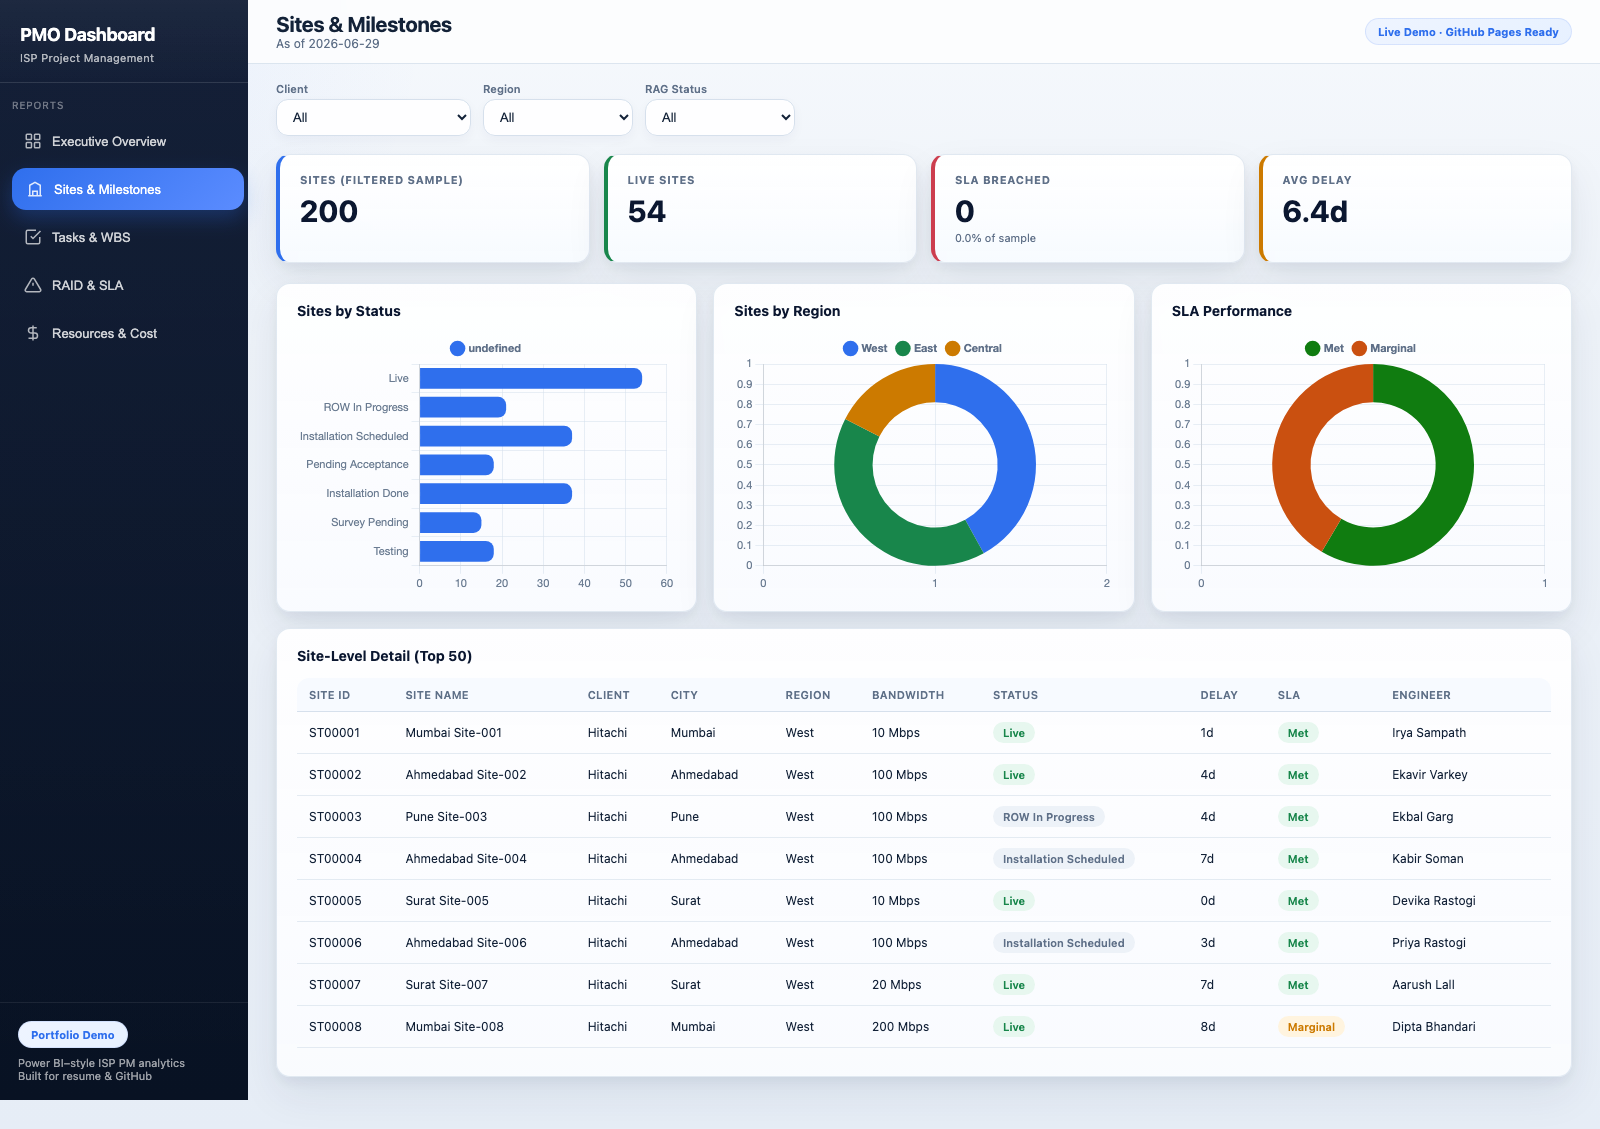
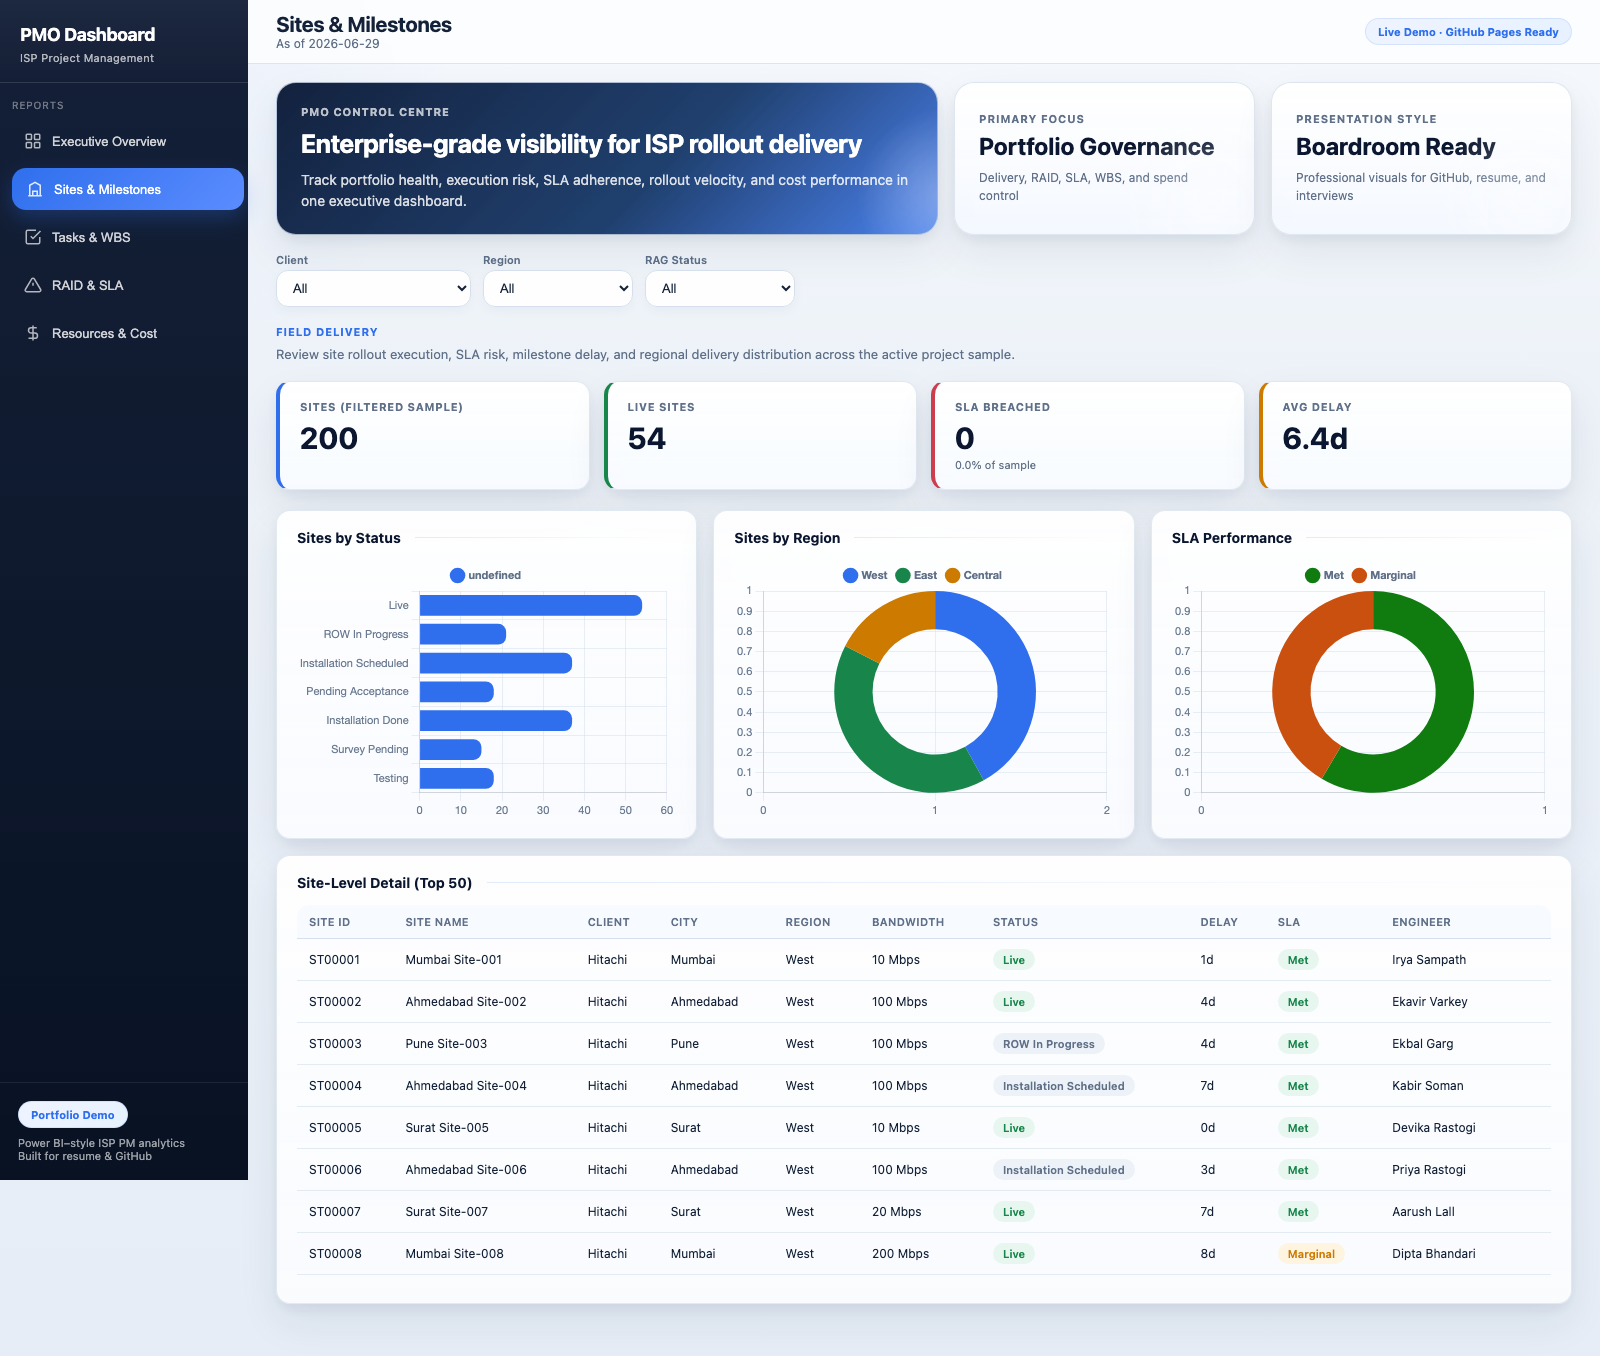
Enhance dashboard with premium layout, motion, and presentation polish.
Add an executive hero section, smoother page transitions, staged card animations, and stronger visual storytelling for a more professional PMO experience.

Changed region(s): [[0.0, 0.0, 1.0, 0.992], [0.8438, 0.0, 0.9688, 0.031], [0.75, 0.682, 0.8125, 0.713]]

diff --git a/css/dashboard.css b/css/dashboard.css
@@ -34,6 +34,7 @@ body {
   color: var(--text);
   display: flex;
   min-height: 100vh;
+  overflow-x: hidden;
 }
 
 /* Sidebar */
@@ -140,6 +141,85 @@ body {
 .topbar h2 { font-size: 21px; font-weight: 700; letter-spacing: -.3px; }
 .topbar-meta { font-size: 12px; color: var(--text-muted); }
 
+.hero-strip {
+  display: grid;
+  grid-template-columns: 2.2fr 1fr 1fr;
+  gap: 16px;
+  padding: 18px 28px 0;
+}
+
+.hero-panel {
+  position: relative;
+  overflow: hidden;
+  border-radius: 20px;
+  border: 1px solid rgba(214, 224, 236, .78);
+  box-shadow: var(--shadow);
+  padding: 22px 24px;
+  backdrop-filter: blur(10px);
+}
+
+.hero-panel::after {
+  content: "";
+  position: absolute;
+  inset: auto -15% -35% auto;
+  width: 180px;
+  height: 180px;
+  background: radial-gradient(circle, rgba(255,255,255,.32), transparent 70%);
+  pointer-events: none;
+}
+
+.hero-primary {
+  background:
+    linear-gradient(135deg, rgba(14, 29, 58, .98) 0%, rgba(23, 56, 104, .96) 58%, rgba(47, 111, 237, .86) 100%);
+  color: #fff;
+}
+
+.hero-primary h3 {
+  font-size: 26px;
+  line-height: 1.18;
+  letter-spacing: -.45px;
+  margin-bottom: 10px;
+}
+
+.hero-primary p {
+  max-width: 760px;
+  color: rgba(255,255,255,.84);
+  font-size: 14px;
+  line-height: 1.55;
+}
+
+.hero-metric {
+  background: linear-gradient(180deg, rgba(255,255,255,.98), rgba(244,248,255,.96));
+  display: flex;
+  flex-direction: column;
+  justify-content: center;
+  gap: 8px;
+}
+
+.hero-label,
+.eyebrow,
+.section-kicker {
+  text-transform: uppercase;
+  letter-spacing: .85px;
+  font-size: 11px;
+  font-weight: 700;
+}
+
+.hero-label { color: var(--text-muted); }
+.eyebrow { color: rgba(255,255,255,.72); margin-bottom: 10px; }
+
+.hero-metric strong {
+  font-size: 24px;
+  line-height: 1.15;
+  color: var(--navy);
+}
+
+.hero-metric small {
+  font-size: 12px;
+  line-height: 1.5;
+  color: var(--text-muted);
+}
+
 .slicers {
   display: flex;
   gap: 12px;
@@ -176,7 +256,29 @@ body {
 }
 
 .page { display: none; }
-.page.active { display: block; }
+.page.active {
+  display: block;
+  animation: pageFade .42s ease;
+}
+
+.section-intro {
+  display: flex;
+  justify-content: space-between;
+  align-items: flex-end;
+  margin: 0 0 16px;
+}
+
+.section-intro p {
+  color: var(--text-muted);
+  font-size: 13px;
+  line-height: 1.6;
+  max-width: 760px;
+}
+
+.section-kicker {
+  color: var(--accent);
+  margin-bottom: 6px;
+}
 
 /* KPI row */
 .kpi-row {
@@ -193,6 +295,12 @@ body {
   box-shadow: var(--shadow);
   border: 1px solid rgba(214, 224, 236, .7);
   border-left: 4px solid var(--accent);
+  transition: transform .22s ease, box-shadow .22s ease, border-color .22s ease;
+}
+
+.kpi-card:hover {
+  transform: translateY(-3px);
+  box-shadow: 0 24px 48px rgba(15, 38, 71, 0.12), 0 10px 22px rgba(15, 38, 71, 0.08);
 }
 
 .kpi-card.green { border-left-color: var(--green); }
@@ -213,6 +321,7 @@ body {
   font-weight: 700;
   line-height: 1.1;
   color: var(--navy);
+  text-shadow: 0 1px 0 rgba(255,255,255,.65);
 }
 
 .kpi-sub {
@@ -238,6 +347,12 @@ body {
   padding: 18px 20px;
   margin-bottom: 16px;
   border: 1px solid rgba(214, 224, 236, .72);
+  transition: transform .24s ease, box-shadow .24s ease;
+}
+
+.visual:hover {
+  transform: translateY(-2px);
+  box-shadow: 0 26px 52px rgba(15, 38, 71, 0.1), 0 8px 16px rgba(15, 38, 71, 0.06);
 }
 
 .visual-header {
@@ -251,6 +366,14 @@ body {
   font-size: 14px;
   font-weight: 700;
   color: var(--navy);
+}
+
+.visual-header::after {
+  content: "";
+  flex: 1;
+  height: 1px;
+  margin-left: 14px;
+  background: linear-gradient(90deg, rgba(47,111,237,.14), rgba(47,111,237,0));
 }
 
 .chart-wrap {
@@ -288,6 +411,10 @@ body {
 }
 
 .data-table tr:hover td { background: #f6f9fe; }
+
+.data-table tbody tr {
+  transition: transform .15s ease;
+}
 
 .table-scroll {
   max-height: 380px;
@@ -367,4 +494,39 @@ body {
 .kpi-card,
 .slicer select {
   backdrop-filter: blur(8px);
+}
+
+@keyframes pageFade {
+  from {
+    opacity: 0;
+    transform: translateY(8px);
+  }
+  to {
+    opacity: 1;
+    transform: translateY(0);
+  }
+}
+
+@media (max-width: 1200px) {
+  .hero-strip {
+    grid-template-columns: 1fr;
+  }
+}
+
+@media (max-width: 1100px) {
+  .section-intro {
+    align-items: flex-start;
+  }
+}
+
+@media (prefers-reduced-motion: reduce) {
+  .page.active,
+  .visual,
+  .kpi-card,
+  .nav-item,
+  .data-table tbody tr {
+    animation: none !important;
+    transition: none !important;
+    transform: none !important;
+  }
 }

diff --git a/index.html b/index.html
@@ -59,6 +59,24 @@
     <div class="resume-badge">Live Demo · GitHub Pages Ready</div>
   </header>
 
+  <section class="hero-strip">
+    <div class="hero-panel hero-primary">
+      <div class="eyebrow">PMO Control Centre</div>
+      <h3>Enterprise-grade visibility for ISP rollout delivery</h3>
+      <p>Track portfolio health, execution risk, SLA adherence, rollout velocity, and cost performance in one executive dashboard.</p>
+    </div>
+    <div class="hero-panel hero-metric">
+      <span class="hero-label">Primary focus</span>
+      <strong>Portfolio Governance</strong>
+      <small>Delivery, RAID, SLA, WBS, and spend control</small>
+    </div>
+    <div class="hero-panel hero-metric">
+      <span class="hero-label">Presentation style</span>
+      <strong>Boardroom Ready</strong>
+      <small>Professional visuals for GitHub, resume, and interviews</small>
+    </div>
+  </section>
+
   <!-- Global Slicers -->
   <div class="slicers">
     <div class="slicer"><label>Client</label><select id="filter-client"></select></div>
@@ -77,6 +95,12 @@
 
     <!-- PAGE 1: Overview -->
     <div id="page-overview" class="page active">
+      <div class="section-intro">
+        <div>
+          <div class="section-kicker">Executive Summary</div>
+          <p>Monitor project health, budget performance, rollout progress, and portfolio distribution with a leadership-friendly overview.</p>
+        </div>
+      </div>
       <div class="kpi-row" id="overview-kpis"></div>
       <div class="grid-2-1">
         <div class="visual">
@@ -104,6 +128,12 @@
 
     <!-- PAGE 2: Sites -->
     <div id="page-sites" class="page">
+      <div class="section-intro">
+        <div>
+          <div class="section-kicker">Field Delivery</div>
+          <p>Review site rollout execution, SLA risk, milestone delay, and regional delivery distribution across the active project sample.</p>
+        </div>
+      </div>
       <div class="kpi-row" id="sites-kpis"></div>
       <div class="grid-3">
         <div class="visual"><div class="visual-header"><span class="visual-title">Sites by Status</span></div><div class="chart-wrap"><canvas id="chart-site-status"></canvas></div></div>
@@ -126,6 +156,12 @@
 
     <!-- PAGE 3: Tasks -->
     <div id="page-tasks" class="page">
+      <div class="section-intro">
+        <div>
+          <div class="section-kicker">Work Breakdown Structure</div>
+          <p>Track phase-level execution progress from initiation through hypercare and identify uneven delivery across rollout stages.</p>
+        </div>
+      </div>
       <div class="grid-3">
         <div class="visual"><div class="visual-header"><span class="visual-title">Tasks by WBS Phase</span></div><div class="chart-wrap"><canvas id="chart-task-phase"></canvas></div></div>
         <div class="visual"><div class="visual-header"><span class="visual-title">Task Status</span></div><div class="chart-wrap"><canvas id="chart-task-status"></canvas></div></div>
@@ -147,6 +183,12 @@
 
     <!-- PAGE 4: RAID -->
     <div id="page-raid" class="page">
+      <div class="section-intro">
+        <div>
+          <div class="section-kicker">Governance and Risk</div>
+          <p>Assess issue severity, open risks, dependency exposure, and SLA achievement against target service commitments.</p>
+        </div>
+      </div>
       <div class="kpi-row" id="raid-kpis"></div>
       <div class="grid-2">
         <div class="visual"><div class="visual-header"><span class="visual-title">RAID by Type</span></div><div class="chart-wrap"><canvas id="chart-raid-type"></canvas></div></div>
@@ -169,6 +211,12 @@
 
     <!-- PAGE 5: Resources -->
     <div id="page-resources" class="page">
+      <div class="section-intro">
+        <div>
+          <div class="section-kicker">Capacity and Cost</div>
+          <p>View resource utilization, monthly budget movement, and major cost drivers to support execution planning and control.</p>
+        </div>
+      </div>
       <div class="kpi-row" id="res-kpis"></div>
       <div class="grid-2">
         <div class="visual"><div class="visual-header"><span class="visual-title">Team by Role</span></div><div class="chart-wrap"><canvas id="chart-res-role"></canvas></div></div>

diff --git a/js/dashboard.js b/js/dashboard.js
@@ -89,6 +89,7 @@ function renderPage(page) {
   document.getElementById(`page-${page}`).classList.add('active');
   const fn = { overview: renderOverview, sites: renderSites, tasks: renderTasks, raid: renderRaid, resources: renderResources };
   fn[page]();
+  animateCards();
 }
 
 /* ── Page 1: Executive Overview ── */
@@ -284,6 +285,10 @@ function renderProjectTable(id, projs) {
 function chartDefaults() {
   return {
     responsive: true, maintainAspectRatio: false,
+    animation: {
+      duration: 900,
+      easing: 'easeOutQuart'
+    },
     plugins: {
       legend: {
         labels: {
@@ -314,6 +319,20 @@ function chartDefaults() {
       }
     }
   };
+}
+
+function animateCards() {
+  document.querySelectorAll('.kpi-card, .visual').forEach((el, idx) => {
+    el.style.opacity = '0';
+    el.style.transform = 'translateY(10px)';
+    requestAnimationFrame(() => {
+      setTimeout(() => {
+        el.style.transition = 'opacity .34s ease, transform .34s ease';
+        el.style.opacity = '1';
+        el.style.transform = 'translateY(0)';
+      }, idx * 35);
+    });
+  });
 }
 
 function makeDoughnut(id, labels, data, colors) {
